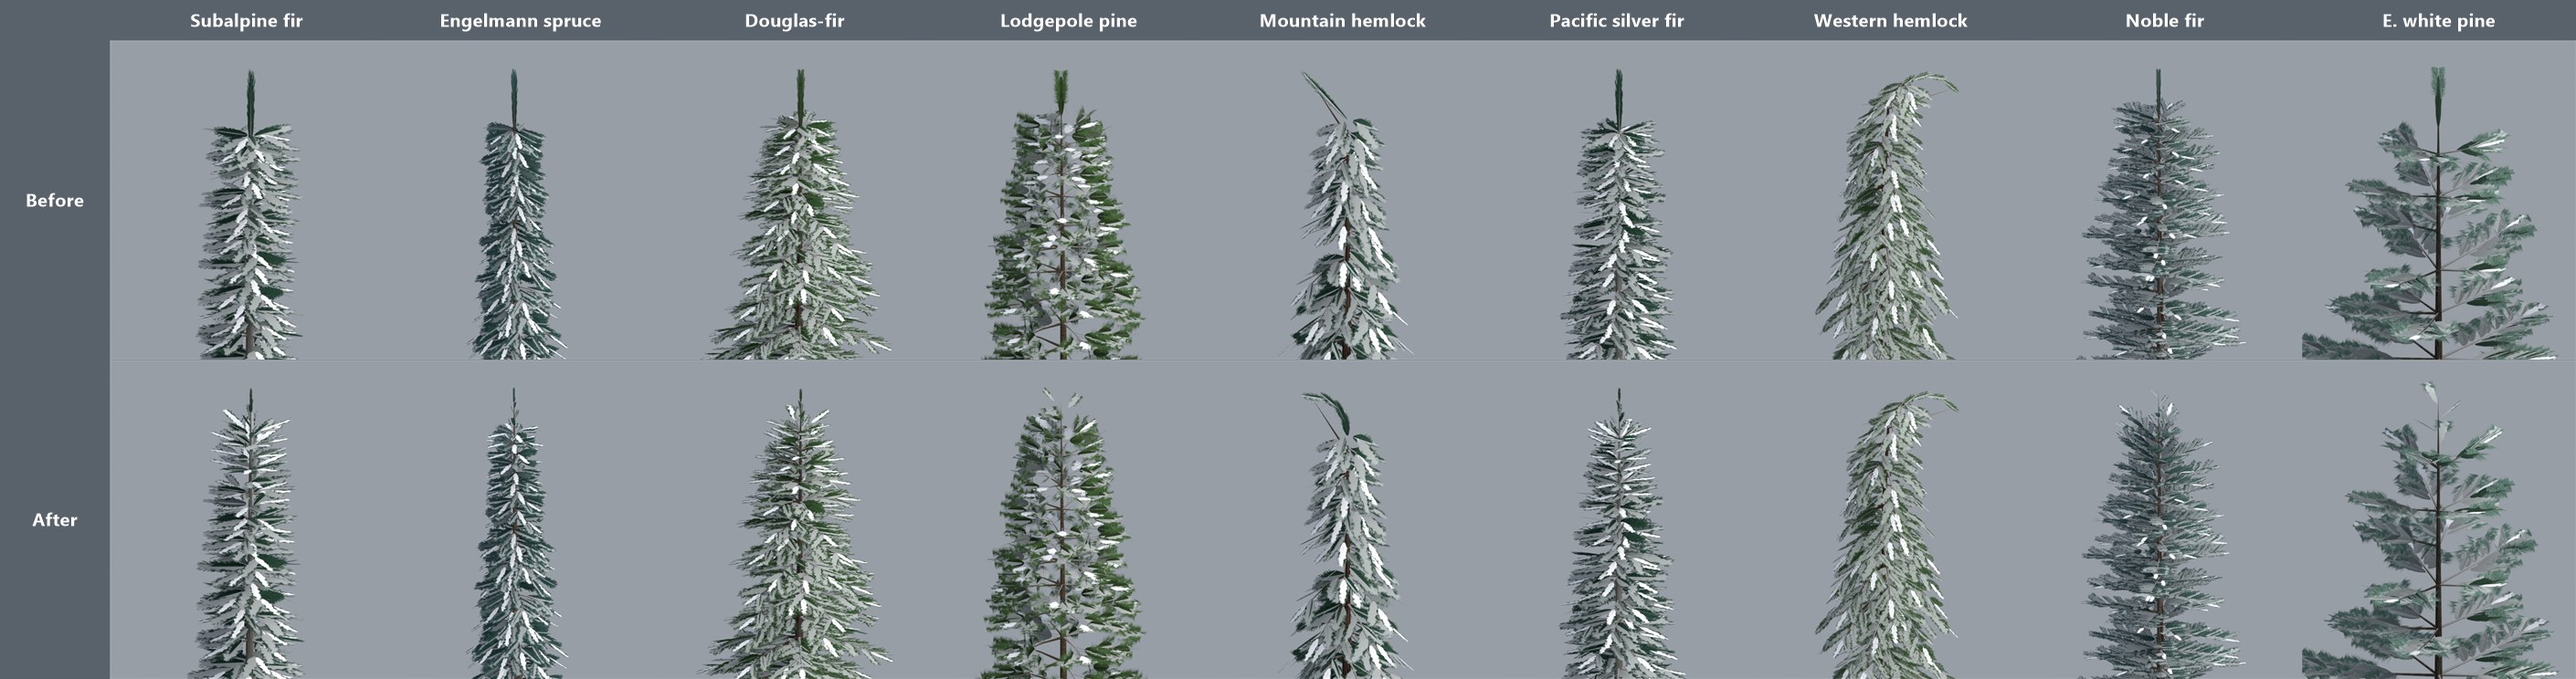
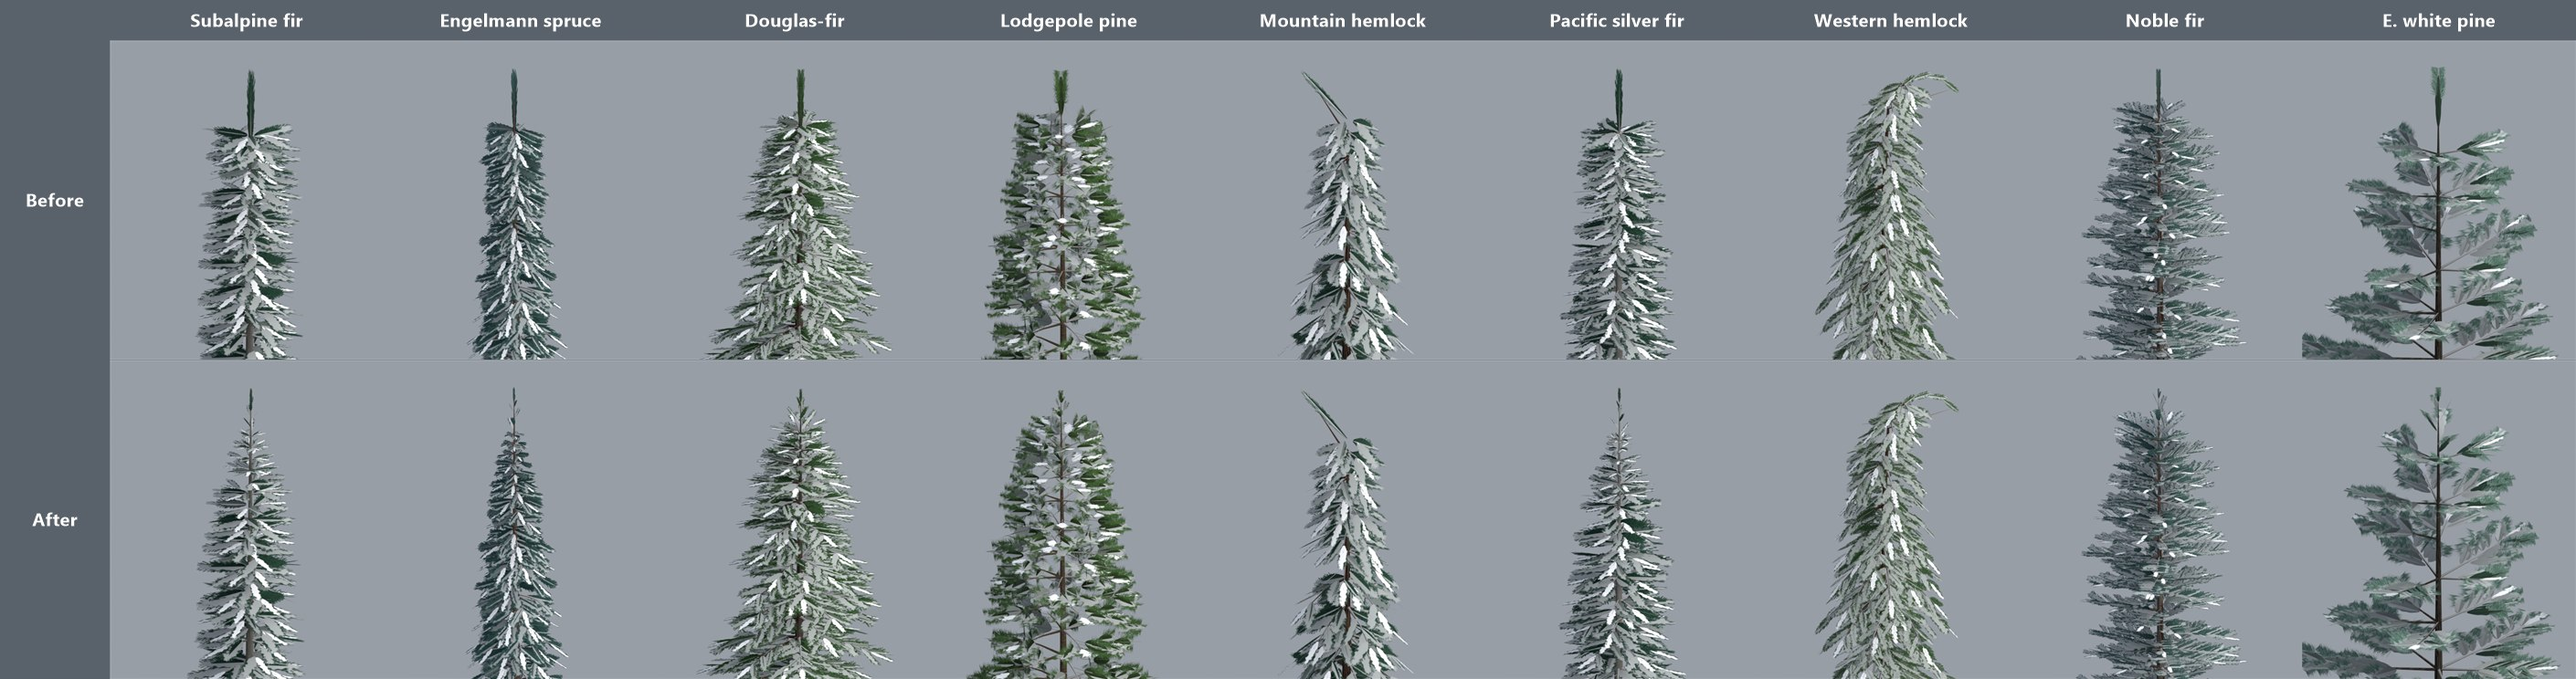
Evergreen tops: a normal pointed top that narrows gradually (owner's choice)
The owner asked for "a normal pointed top that doesn't instantly become pointed",
and no curved tops. One top style replaces "spire" and "round": in the top 15% of
the crown, branches may be very short and their shoots no longer than they are,
the far LODs' clusters narrow alike, and a short leader of small upturned sprays
ends each spray on a cone that closes at the tip. For the seven trees with the
fin, the crown now narrows like a cone (subalpine fir 0.71 / 0.33 / 0.14 of its
width at 85% height, at 90 / 95 / 98%; a straight cone is 0.67 / 0.33 / 0.13),
with snow to the top, about 10 triangles more per tree, and colour and LOD
coverage within 0.7 L* and 0.04. Mountain hemlock keeps its own top. Off by
default: existing trees still build bit-identical (203 of 203).

Git LFS figures corrected: GitHub's free allowance is now 10 GiB of storage and
10 GiB of downloads a month, not the 1 GB the plans assumed.

diff --git a/tools/assets/trees/build_trees.py b/tools/assets/trees/build_trees.py
@@ -243,6 +243,9 @@ def conifer_branch(b, sp, rng, lod, base, d, length, elev, h, reach, parity, swa
         tan = branch_tangent(0.5)
         lo, hi, extra = sp.get("clusterSpan", (1.1, 3.2, 0.9))
         span = min(hi, max(lo, 0.55 * length + extra)) * (0.8 if reach < 1.0 else 1.0)
+        if "top" in sp:
+            # Near the top only: short top branches get narrow clusters, so the top stays pointed.
+            span *= lerp(1.0, min(1.0, max(0.3, length / 1.5)), smoothstep(0.8, 0.97, h))
         # LOD2 has one card per branch: alternate a strong roll so the crown isn't edge-on from the side.
         roll = rng.uniform(-0.25, 0.25) + (0.0 if lod["cluster"] >= 2 else (0.6 if parity else -0.6))
         ends = [(sway(base.z), 0.0, phase, 0.4), (sway(pts[-1].z), 1.0 * flex, phase, 1.0)]
@@ -287,7 +290,8 @@ def conifer_branch(b, sp, rng, lod, base, d, length, elev, h, reach, parity, swa
         ln = spray_len * 1.5 * size * (1 - 0.3 * t) * rng.uniform(0.85, 1.15)
         wd = spray_w * 1.6 * size * (1 - 0.25 * t)
         if "top" in sp:
-            short = lerp(1.0, 0.5, smoothstep(0.8, 1.0, h))   # shoots shorten toward the top, so it tapers to a point
+            # Near the top only, shoots are no longer than their branch, so the crown closes smoothly to the tip.
+            short = lerp(1.0, min(1.0, max(0.12, length / (spray_len * 1.5))), smoothstep(0.8, 0.97, h))
             ln, wd = ln * short, wd * short
         roll = rng.uniform(-0.6, 0.6)
         wn = [(sway(p.z), t * flex, phase, 0.5), (sway(p.z), min(1.0, t + 0.2) * flex, phase, 1.0)]
@@ -300,6 +304,11 @@ def conifer_branch(b, sp, rng, lod, base, d, length, elev, h, reach, parity, swa
             b.card(p, dirn, horizontal_side(dirn, roll + rng.choice((-1, 1)) * 1.1), ln * 0.75, wd * 0.8, wn, FOLIAGE, snow_scale=0.2)
     tip = pts[-1]
     tan = branch_tangent(0.97)
+    if "top" in sp:
+        short = lerp(1.0, min(1.0, max(0.12, length / (spray_len * 1.5))), smoothstep(0.8, 0.97, h))
+        b.card(tip - tan * spray_len * 0.3 * short, tan, horizontal_side(tan, 0.0), spray_len * size * short, spray_w * size * short,
+               [(sway(tip.z), 0.9 * flex, phase, 0.8), (sway(tip.z), 1.0 * flex, phase, 1.0)], FOLIAGE)
+        return
     b.card(tip - tan * spray_len * 0.3, tan, horizontal_side(tan, 0.0), spray_len * size, spray_w * size,
            [(sway(tip.z), 0.9 * flex, phase, 0.8), (sway(tip.z), 1.0 * flex, phase, 1.0)], FOLIAGE)
 
@@ -372,43 +381,45 @@ def build_conifer(sp, rng, lod, height):
             if rng.random() < sp.get("skip", 0.08):   # a missing limb (white pine: often, so the crown is open)
                 continue
             az = k * GOLDEN + j * 2 * math.pi / count + rng.uniform(-0.25, 0.25) + (0.0 if reach == 1.0 else math.pi / count)
-            length = max(0.35, crown_radius(z) * rng.uniform(*sp.get("limbJitter", (0.85, 1.1))) * reach)
+            length = max(0.35 if top_style is None else lerp(0.35, 0.08, smoothstep(0.85, 1.0, h)), crown_radius(z) * rng.uniform(*sp.get("limbJitter", (0.85, 1.1))) * reach)
             elev = math.radians(lerp(sp["branchElevation"][1], sp["branchElevation"][0], h))
             if top_style is not None:
-                elev += math.radians(sp.get("topUpsweep", 30.0)) * smoothstep(0.75, 1.0, h)   # the top whorls turn up
+                elev += math.radians(sp.get("topUpsweep", 20.0)) * smoothstep(0.75, 1.0, h)   # the top whorls turn up
             conifer_branch(b, sp, rng, lod, trunk_point(z / height), Vector((math.cos(az), math.sin(az), 0)), length, elev, h, reach,
                            (k + j) % 2, sway, trunk_r)
         k += 1
 
     if top_style is not None:
-        # The top (task 09 phase 2 audit): the original leader, upright cards, read as dark, snowless fins standing
-        # up to 2 m above the crown. Here the whorls carry on to just below the tip and sweep up (topUpsweep), and:
-        #   spire  a short leader shoot needled all round: small sprays spiralling up the last stretch of trunk,
-        #          angled up so they hold snow and shrinking to the tip, then a small bud (firs, spruces, Douglas-fir)
-        #   round  no leader: the top whorls and a ring of upturned sprays round off the top (pines, old noble fir)
+        # The top (task 09 phase 2 audit). The original leader, upright cards, read as dark, snowless fins standing up
+        # to 2 m above the crown. The owner asked for "a normal pointed top that doesn't instantly become pointed": the
+        # crown closes gradually to the tip. So top branches may be short and their shoots no longer than they are
+        # (conifer_branch), and the last stretch of trunk carries a short leader needled all round: small sprays
+        # spiralling up it, angled up so they hold snow, each ending on a cone that closes at the tip, then a small bud.
         spray_len, spray_w = sp["spray"]
         last = max([z for z, _, _ in tiers if z < top_z] or [crown_base])
         z0 = min(last + 0.05, height - 0.4)
-        n = sp.get("topSprays", 6 if top_style == "spire" else 5)
+        n = sp.get("topSprays", 6)
         n = n if lod["cards"] >= 1.0 else (max(3, (n + 1) // 2) if lod["cards"] else 2)
-        lo_rise, hi_rise = (50.0, 80.0) if top_style == "spire" else (22.0, 50.0)
         grow = 1.0 if lod["cards"] >= 1.0 else 1.4   # LOD1-2 draw branch-cluster textures: larger cards
+        cone = 1.4 * crown_radius(z0) + 0.1           # the foliage's radius where the leader starts; 0 at the tip
+        span = max(0.1, height - z0)
         for i in range(n):
             t = (i + 0.5) / n
-            z = lerp(z0, height - (0.35 if top_style == "spire" else 0.1), t)
+            z = lerp(z0, height - 0.3, t)
             p = trunk_point(z / height)
             az = (k + i) * GOLDEN
-            rise = math.radians(lerp(lo_rise, hi_rise, t))
+            rise = math.radians(lerp(45.0, 75.0, t))
             d = (Vector((math.cos(az), math.sin(az), 0)) * math.cos(rise) + UP * math.sin(rise)).normalized()
-            size = (lerp(0.6, 0.25, t) if top_style == "spire" else lerp(1.0, 0.7, t)) * grow
-            b.card(p, d, horizontal_side(d, 0.0), spray_len * 1.1 * size, spray_w * 1.2 * size,
+            # The spray's tip lies on the cone: ln cos(rise) = cone (1 - (z - z0 + ln sin(rise)) / span).
+            ln = cone * (1 - (z - z0) / span) / (math.cos(rise) + math.sin(rise) * cone / span)
+            ln = max(0.15, min(spray_len * 1.1, ln)) * grow
+            b.card(p, d, horizontal_side(d, 0.0), ln, ln * spray_w / spray_len,
                    [(sway(p.z), 0.2, phase_trunk, 0.6), (sway(p.z), 0.6, phase_trunk, 1.0)], FOLIAGE, snow_scale=0.5)
-        if top_style == "spire":
-            tip = trunk_point((height - 0.45) / height)
-            up = (trunk_point(1.0) - tip).normalized()
-            for i in range(2 if lod["cards"] >= 1.0 else 1):
-                b.card(tip, up, horizontal_side(up, i * math.pi / 2), 0.45, spray_w * 0.35,
-                       [(sway(tip.z), 0.3, phase_trunk, 0.6), (1.0, 0.4, phase_trunk, 1.0)], FOLIAGE, snow_scale=0.3)
+        tip = trunk_point((height - 0.45) / height)
+        up = (trunk_point(1.0) - tip).normalized()
+        for i in range(2 if lod["cards"] >= 1.0 else 1):
+            b.card(tip, up, horizontal_side(up, i * math.pi / 2), 0.45, spray_w * 0.35,
+                   [(sway(tip.z), 0.3, phase_trunk, 0.6), (1.0, 0.4, phase_trunk, 1.0)], FOLIAGE, snow_scale=0.3)
         return b
 
     # Leader: upright sprays to the tip so the top is never bare.

diff --git a/docs/plans/phase2-evergreen-tops.md b/docs/plans/phase2-evergreen-tops.md
@@ -1,6 +1,6 @@
 # The evergreens' spiky tops: audit and plan
 
-**Audience:** the project owner. **Status:** 🟨 plan for your approval. A working prototype is in Blender; nothing has changed in the game. **Date:** 2026-10-01. **Part of:** task 09 phase 2; the wider audit of all the trees follows in its own page.
+**Audience:** the project owner. **Status:** 🟨 plan for your approval, revised to your choice: a normal pointed top that narrows gradually, for every tree that had the fin, and no curved or rounded tops. A working prototype is in Blender; nothing has changed in the game. **Date:** 2026-10-01. **Part of:** task 09 phase 2; the wider audit of all the trees follows in its own page.
 
 You asked: *"Why are the tops of the evergreens so straight up and spiky?"* and *"Audit all evergreens for this behavior please and make a plan to correct."*
 
@@ -39,11 +39,11 @@ Measured on the built models (all three variants), with the real tree's top from
 
 ## The plan
 
-**1. Two new tops in the tree script,** chosen per species in `species.json` (`"top"`):
-- **Spire** (subalpine fir, Engelmann spruce, Douglas-fir, Pacific silver fir): the top whorls sweep up and their shoots shorten toward the tip. The last stretch becomes a short leader needled all round, like a bottlebrush: six small sprays spiralling up the trunk at 50-80°, so they hold snow and taper to a point, ending in a small bud. No upright cards.
-- **Rounded** (lodgepole pine, noble fir, eastern white pine): no leader. The top whorls sweep up 35-45°, and a ring of upturned sprays rounds off the top.
-- **Mountain hemlock** (optional): western hemlock's curved leader instead of the straight nodding hook.
-- **Unchanged:** western hemlock, krummholz and every broadleaf.
+**1. One new top in the tree script: pointed, narrowing gradually** (your choice, 2026-10-01: *"a normal pointed top that doesn't instantly become pointed"*). It's switched on per species in `species.json` (`"top"`) for all seven trees with the fin: subalpine fir, Engelmann spruce, Douglas-fir, lodgepole pine, Pacific silver fir, noble fir and eastern white pine.
+- **The crown keeps narrowing to the tip.** In the top 15% of the crown, branches may be very short and their shoots are no longer than they are. The far LODs' branch clusters narrow the same way.
+- **The last stretch is a short leader needled all round**, like a bottlebrush: six small sprays spiralling up the trunk at 45-75°, each ending on a cone that closes at the tip, then a small bud. The sprays hold snow. No upright cards.
+- **No curved or rounded tops.** Mountain hemlock keeps its own nodding top, and western hemlock keeps the drooping top you approved in task 09.
+- **Unchanged:** both hemlocks, krummholz and every broadleaf.
 
 **2. Already prototyped and measured** (Blender, the audit tool's game shading):
 
@@ -51,17 +51,16 @@ Measured on the built models (all three variants), with the real tree's top from
 
 | Measure | Before | After (prototype) |
 |---|---|---|
-| Fin above the crown, LOD0 | 1.0-2.0 m on seven trees | **none** on the rounded tops; a narrow needled bud **0.3-0.56 m** on the spires |
-| Snow on the top 1.5 m | 0.00-0.34 | **0.34-0.52** |
-| Crown colour, winter snow, LOD1 and LOD2 coverage | | all within ±0.02 of before |
-| LOD0 triangles | | +4 to +14 per tree; every tree within budget |
-| Every other tree | | bit-identical (203 of 203 hashes) with the new tops switched off |
-
-One thing still to tune: on the far LOD the spires' tip stands 0.6-1.3 m above their cluster cards. It's narrow, but I'd shorten it to match the near LODs.
+| Fin above the crown, LOD0 | 1.0-2.0 m on seven trees | **0.2-0.4 m**: the narrow needled bud at the tip |
+| How gradually the crown narrows: its width at 90 / 95 / 98% of the height, against its width at 85% (a straight cone: 0.67 / 0.33 / 0.13) | 0.77-1.0 / 0.15-0.74 / 0.11-0.22: full width, then the fin | **0.71-0.88 / 0.32-0.62 / 0.14-0.24** for the firs, spruce, Douglas-fir and noble fir; lodgepole and white pine a little fuller |
+| Snow on the top 1.5 m | 0.00-0.34 | **0.29-0.40** |
+| Crown colour, winter snow, LOD1 and LOD2 coverage | | within 0.7 L\* and ±0.04 of before |
+| LOD0 triangles | | about +10 per tree; every tree within budget |
+| Every other tree | | bit-identical (203 of 203 hashes) with the new top switched off |
 
 **3. Your photo review** of the corrected evergreens before anything goes into Unity, as usual: the tops above, silhouettes and the conifer lineup.
 
-**4. One import for everything.** Re-import the six changed conifers (plus mountain hemlock if you want it) with the three New England models, so Git LFS grows once. From the current files: subalpine fir 8.2 MB, Engelmann spruce 9.7, Douglas-fir 8.8, lodgepole pine 6.5, Pacific silver fir 8.9 and noble fir 7.9, so **50 MB** (59 MB with mountain hemlock). With the new models that's about 75-85 MB, against roughly 250 MB used of the free 1 GB. `TreeImport -treeModels` keeps every other tree's files byte for byte.
+**4. One import for everything.** Re-import the six changed conifers with the three New England models, so Git LFS grows once. From the current files: subalpine fir 8.2 MB, Engelmann spruce 9.7, Douglas-fir 8.8, lodgepole pine 6.5, Pacific silver fir 8.9 and noble fir 7.9, so **50 MB**. With the new models that's about 75 MB. GitHub's free allowance is 10 GiB of LFS storage, and this repository uses about 0.25 GiB. `TreeImport -treeModels` keeps every other tree's files byte for byte.
 
 **5. Check it in the game:** the lineup and Sugarloaf's in-forest view, before and after, and the benchmark. Expect no change in cost: about 10 triangles more per tree.
 
@@ -74,5 +73,4 @@ One thing still to tune: on the far LOD the spires' tip stands 0.6-1.3 m above t
 
 ## Decisions for you
 
-1. **Approve the plan:** spire tops for subalpine fir, Engelmann spruce, Douglas-fir and Pacific silver fir; rounded tops for lodgepole pine, noble fir and eastern white pine.
-2. **Mountain hemlock:** give it western hemlock's curved leader (+8.7 MB), or leave its nodding hook as it is?
+1. **Approve the pointed tops** for the seven trees above, for your photo review (the conifer lineup and silhouettes) and then the import?

diff --git a/docs/plans/phase2-trees-audit.md b/docs/plans/phase2-trees-audit.md
@@ -125,16 +125,16 @@ GPU p95 in ms, with **Sugarloaf drawn entirely as that model** (the real mix: 17
 
    | Batch | Git LFS |
    |---|---|
-   | Tops (six or seven conifers) | 50-59 MB |
+   | Tops (six conifers) | 50 MB |
    | Broadleaves (six) | 32 MB |
    | The three New England models | about 25 MB |
-   | **Total** | **about 110-120 MB** |
+   | **Total** | **about 105-110 MB** |
 
-   That's roughly 360-370 MB of the free 1 GB. Every untouched model keeps its files byte for byte.
+   Storage would go from about 0.25 GiB to about 0.36 GiB of GitHub's free 10 GiB. Every untouched model keeps its files byte for byte.
 5. **Later options:** bent near sprays (M4), impostor quads trimmed to the crown (M2, renderer), and a wind-swept old white pine.
 
 ## Decisions for you
 
 1. Approve the hardwood-crown fix (2), with beech made cheaper, for a Blender prototype and photo review?
-2. Combine everything you approve into one import (4)?
+2. Combine everything you approve into one import (4), about 105-110 MB?
 3. **The plantation look** (forest placement): ask the forest thread for more height spread or some clumping in dense conifer stands, or leave it as it is?

diff --git a/docs/plans/new-england-species-plan.md b/docs/plans/new-england-species-plan.md
@@ -86,7 +86,7 @@ If the first guess holds, that's **four or five new models instead of nine**: oa
 
 **Cost:**
 - **Time:** about a day per new model plus your reviews; the sorting itself is a day.
-- **Git LFS:** about 7 MB per new model, so 30–40 MB. That's about 250 MB of the free 1 GB after task 09.
+- **Git LFS:** about 7 MB per new model, so 30–40 MB. GitHub's free allowance is 10 GiB of LFS storage and 10 GiB of downloads a month; the repository uses about 0.25 GiB.
 - **Performance:** a site draws only the species it has (task 09), so these cost nothing at Jackson Hole or Crystal Mountain. Shared models even reduce Sugarloaf's draws.
 
 ## Step 1 result: the sorting
